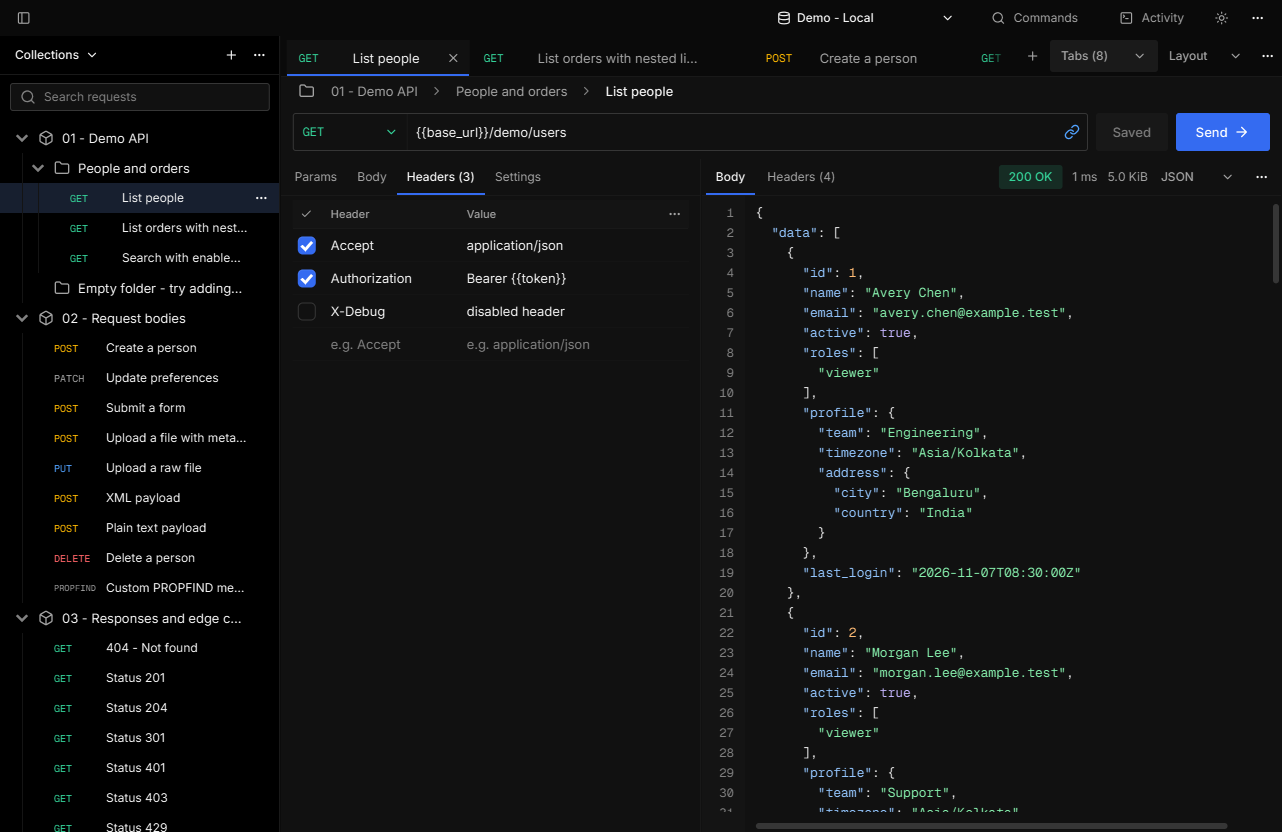
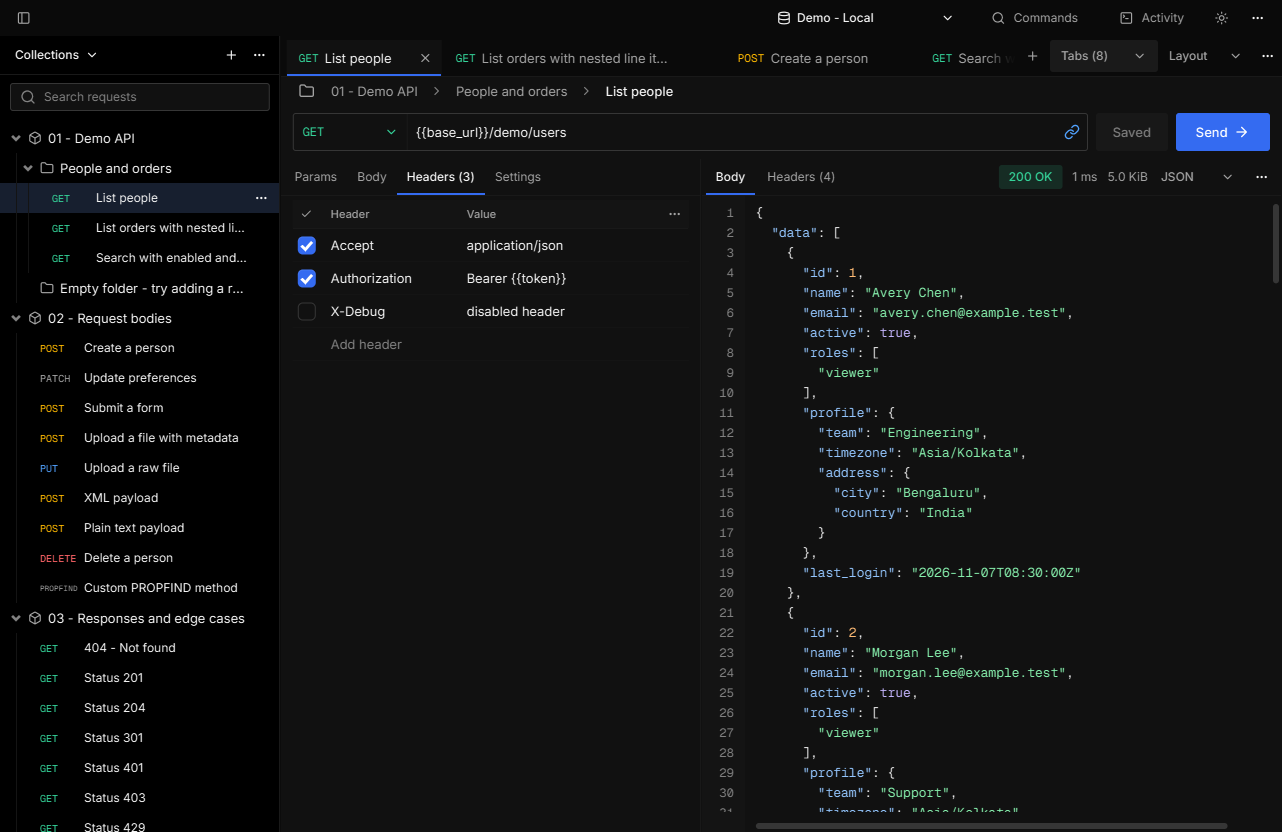
Tighten UI spacing and remove helper text
Sidebar tree: 12px indent per level (was 16), a 16px chevron box with a
10px glyph (was 20/14), 8px row inset and a 14px folder icon. CUI's tree
cell is resized from controls.c after it is built; the dependency is not
patched. Guide lines follow the new geometry.

Helper text removed: keyboard cheat-sheets in table/body/header menus,
"e.g." placeholders, setting and switch descriptions, empty-state detail
lines, error-notice hints, dialog footnotes, footer counts and long
explanatory tooltips. Errors, warnings and real state stay.

Spacing: shorter history and environment rows, document-tab methods take
their own width instead of a 48px slot, the environment dialog table aligns
with its title, and body/upload rows share the 12px content edge.

Tests updated for single-line empty states and natural-width tab methods.

diff --git a/src/controls.c b/src/controls.c
@@ -154,11 +154,53 @@ static void mark_match(cui_ctx *ui, int label, const char *name, int start, int 
     n->paint = paint_match; n->paint_data = m;
 }
 void kest_collection_row_selected(cui_ctx *ui) { kest_a11y_selected(ui, collection_row_id); }
+
+/* CUI's tree cell is sized for a file browser: 12px cell inset, 16px per
+ * level, a 20px chevron box with a 14px glyph and a 16px icon. The sidebar
+ * tightens it in place after the cell is built (layout runs later). The
+ * guide and chevron paint data mirror CUI's private structs. */
+typedef struct { int levels; float x0, step; cui_color color; } kest_tt_guides;
+typedef struct { float angle; cui_color color; float size; const char *icon; } kest_rot_icon;
+enum { KEST_TREE_PAD = 8, KEST_TREE_STEP = 12, KEST_TREE_CHEV = 16, KEST_TREE_GLYPH = 10, KEST_TREE_ICON = 14 };
+static void tighten_tree_cell(cui_ctx *ui, int cell, bool icon) {
+    cui_node *c = &ui->nodes[cell];
+    c->pad[3] = KEST_TREE_PAD;
+    int kids[8], count = 0;
+    for (int i = c->first; i >= 0 && count < 8; i = ui->nodes[i].next) kids[count++] = i;
+    int k = 0;
+    /* The indent leaf (multiples of CUI's 16px step) comes first when nested. */
+    if (k < count && ui->nodes[kids[k]].child_count == 0 && ui->nodes[kids[k]].w.value != 20.0f && ui->nodes[kids[k]].h.value == 1.0f) {
+        cui_node *indent = &ui->nodes[kids[k++]];
+        int levels = (int)(indent->w.value / 16.0f + 0.5f);
+        indent->w = CUI_PX(levels * KEST_TREE_STEP);
+        if (c->paint_data) {
+            kest_tt_guides *g = c->paint_data;
+            g->x0 = KEST_TREE_PAD + KEST_TREE_CHEV * 0.5f;
+            g->step = KEST_TREE_STEP;
+        }
+    }
+    if (k < count) {
+        cui_node *chev = &ui->nodes[kids[k++]];
+        chev->w = CUI_PX(KEST_TREE_CHEV);
+        if (chev->child_count > 0) {
+            chev->h = CUI_PX(KEST_TREE_CHEV);
+            cui_node *glyph = &ui->nodes[chev->first];
+            glyph->w = glyph->h = CUI_PX(KEST_TREE_GLYPH);
+            if (glyph->paint_data) ((kest_rot_icon *)glyph->paint_data)->size = KEST_TREE_GLYPH;
+        }
+    }
+    if (k < count) ui->nodes[kids[k++]].w = CUI_PX(4);
+    if (icon && k + 1 < count) {
+        ui->nodes[kids[k++]].font_size = KEST_TREE_ICON;
+        ui->nodes[kids[k++]].w = CUI_PX(6);
+    }
+}
 void kest_collection_name(cui_ctx *ui, const char *name, const char *method, const char *icon, cui_color color, int match_start, int match_length) {
     int row = cui__current(ui);
     if (row >= 0) { ui->nodes[row].paint = NULL; ui->nodes[row].paint_data = NULL; }
     collection_row_id = row >= 0 ? ui->nodes[row].id : 0;
     cui_tree_table_name(ui, method ? method : name, method ? NULL : icon);
+    if (cui__current(ui) >= 0) tighten_tree_cell(ui, cui__current(ui), !method && icon);
     {
         char spoken[192];
         if (method) snprintf(spoken, sizeof spoken, "%s %s", method, name);
@@ -167,18 +209,18 @@ void kest_collection_name(cui_ctx *ui, const char *name, const char *method, con
     }
     int label = ui->last_node;
     if (method) {
-        /* The slot stays 44px so names align; long verbs such as PROPFIND
+        /* The slot stays 40px so names align; long verbs such as PROPFIND
          * shrink to fit instead of being cut to "PROPFI...". */
         float size = 10;
         size_t length = strlen(method);
         float width = cui_measure_text(ui, CUI_FONT_MONO, size, method, (int)length).width;
-        if (width > 42 && width > 0) size = CUI_MAX(7.0f, floorf(size * 42 / width * 2) / 2);
+        if (width > 38 && width > 0) size = CUI_MAX(7.0f, floorf(size * 38 / width * 2) / 2);
         ui->nodes[label].text_color = cui_color_of(ui, color);
         ui->nodes[label].font = CUI_FONT_MONO;
         ui->nodes[label].font_size = size;
-        ui->nodes[label].w = CUI_PX(44);
+        ui->nodes[label].w = CUI_PX(40);
         ui->nodes[label].flags |= CUI_NF_KEEP_W;
-        cui__leaf(ui, 0, CUI_PX(8), CUI_PX(1));
+        cui__leaf(ui, 0, CUI_PX(4), CUI_PX(1));
         cui_text_opts opts = {0}; opts.nowrap = true; opts.size = 12;
         cui_text_ex(ui, name, &opts);
         label = ui->last_node;
@@ -413,7 +455,7 @@ cui_doc_tabs_result kest_doc_tabs_ex(cui_ctx *ui, const char *key, const kest_do
                     item->text_len = (int)strlen(tabs[k].method);
                     item->text_color = cui_color_of(ui, tabs[k].method_color);
                     float width = cui__text_width(ui, item->font, item->font_size, item->text, item->text_len, false);
-                    item->w = CUI_PX(CUI_MAX(KEST_METHOD_WIDTH, CUI_MIN(KEST_METHOD_MAX, width)));
+                    item->w = CUI_PX(CUI_MIN(KEST_METHOD_MAX, ceilf(width)));
                     item->min_w = item->w.value; item->flags |= CUI_NF_CLIP | CUI_NF_KEEP_W;
                 } else if (item->text) {
                     if (tabs[k].label) { item->text = tabs[k].label; item->text_len = (int)strlen(tabs[k].label); }

diff --git a/tests/control_styles.c b/tests/control_styles.c
@@ -306,7 +306,12 @@ int main(void) {
         for (int n = 0; n < ui->node_count; n++) {
             cui_node *node = &ui->nodes[n];
             if (node->text == document_label) { CHECK(node->text_len == (int)strlen(document_label)); names++; }
-            if (node->text && node->font == CUI_FONT_MONO) { CHECK(node->rect.w == 48); methods++; }
+            if (node->text && node->font == CUI_FONT_MONO) {
+                /* Methods take their own width: no padded slot before the name. */
+                float text_w = cui_measure_text(ui, node->font, node->font_size, node->text, node->text_len).width;
+                CHECK(node->rect.w >= text_w - 0.5f && node->rect.w <= ceilf(text_w) + 0.5f && node->rect.w <= KEST_METHOD_MAX);
+                methods++;
+            }
             if (node->parent >= 0 && ui->nodes[node->parent].id == (document ^ 0xC105Eu) && node->font == CUI_FONT_ICONS)
                 visible_close += node->opacity == 1;
         }

diff --git a/src/ui/metrics.h b/src/ui/metrics.h
@@ -9,7 +9,7 @@ enum {
     KEST_TEXT_BODY = 13, KEST_TEXT_SECONDARY = 12, KEST_TEXT_CAPTION = 11,
     KEST_ICON_SMALL = 14, KEST_RADIUS_CONTROL = 3, KEST_RADIUS_PANEL = 6,
     KEST_DOCUMENT_TAB_MIN = 144, KEST_DOCUMENT_TAB_MAX = 280,
-    KEST_METHOD_WIDTH = 48, KEST_METHOD_MAX = 84, KEST_DIRTY_SLOT = 12,
+    KEST_METHOD_MAX = 84, KEST_DIRTY_SLOT = 12,
     KEST_COMPOSER_METHOD = 112, KEST_COMPOSER_SAVE = 72, KEST_COMPOSER_SEND = 94,
     KEST_TABLE_HEADER = 28, KEST_TABLE_ROW = 32, KEST_TABLE_STRIDE = 33,
     KEST_TABLE_ENABLED = 28, KEST_TABLE_ACTIONS = 28,
